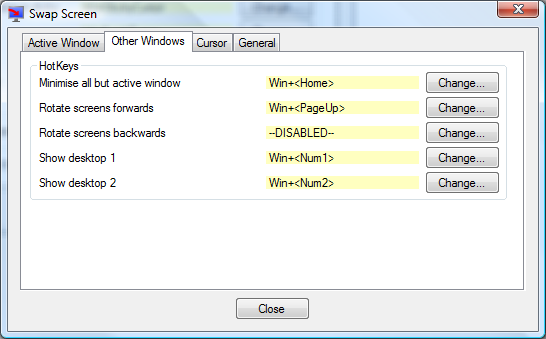
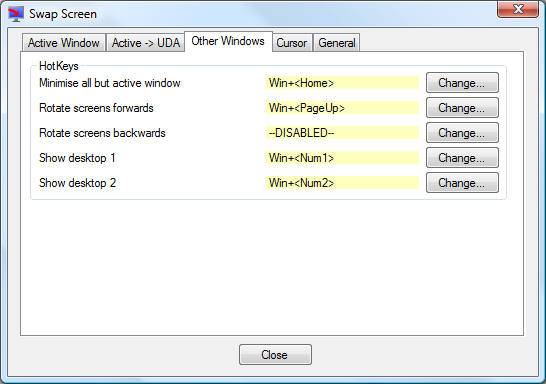
Version 1.8
git-svn-id: svn://svn.code.sf.net/p/dualmonitortool/code/trunk@273 fb2ba5e6-08d8-4d4c-bdde-3d14dca355d2

diff --git a/Web/swapscreen.html b/Web/swapscreen.html
@@ -77,7 +77,7 @@ appropriate 'Change...' button, you can enable the other hotkeys and choose a su
 either in this program or in another program or by Windows itself. If you do try to use one of these, 
 then you will be told that this is the case and you will be able to change the key combination to something different.</p>
 
-<p>The options window contains four tabs:</p>
+<p>The options window contains five tabs:</p>
 
 <p class="SubHeading">'Active Window' tab</p>
 
@@ -101,14 +101,24 @@ If you are running Windows 7, then Windows 7 already provides this functionality
 Win+&lt;Down&gt; hotkey.</p>
 
 <p class="SubHeading2"><a name="Maximise">Maximise active window</a></p>
-<p>If the active window can be maximised, then it is maximised.<br />
+<p>If the active window can be maximised, then it is maximised.
+If it is already maximised, then it is restored.<br />
 If you are running Windows 7, then Windows 7 already provides this functionality with the
 Win+&lt;Up&gt; hotkey.</p>
 
 <p class="SubHeading2"><a name="Supersize">Supersize active window</a></p>
 <p>If the active window can be resized, then it is made large enough to cover all screens.<br />
 This may mean that part(s) of the window may not be visible if your screens have different resolutions, 
-or if you have a fixed taskbar displayed.</p>
+or if you have a fixed taskbar displayed.<br />
+If you press the hotkey again on a window that has just been supersized, then the window is restored to its
+previous location and size.</p>
+
+<p class="SubHeading">'Active -&gt; UDA' tab</p>
+
+<img src="Images/SwapScreen1Uda.png" alt="Active to UDA Window" />
+<p>These allow you to move the active window to a User Defined Area (UDA).</p>
+
+<p>When first run, 10 default UDA's are generated, but you may change the name, location, size and the hotkey for all of these.</p>
 
 <p class="SubHeading">'Other Windows' tab</p>
 
@@ -170,6 +180,12 @@ You can adjust the resistance using the <a href="#StickyResistance">Resistance t
 <p class="SubHeading2"><a name="ControlCursor">Allow cursor to move freely if the left Control key is pressed</a></p>
 <p>If this is checked, then regardless of mode, you can freely move the cursor between screens while the left control key is pressed.</p>
 
+<p class="SubHeading2"><a name="PrimaryReturn">Allow cursor to return freely to the primary screen</a></p>
+<p>If this is checked, then regardless of mode, you can freely move the cursor over a screen boundary if the cursor is being moved onto the primary screen.</p>
+
+<p class="SubHeading2"><a name="DefaultCursor">Default cursor mode on startup</a></p>
+<p>Allows the cursor mode to be automatically set when SwapScreen starts.</p>
+
 <p class="SubHeading">'General' tab</p>
 
 <img src="Images/SwapScreen4.png" alt="General" />
@@ -221,7 +237,7 @@ to restore normal operation of the game, and in others it can mess the current g
 		<div id="footer-left">
 		</div>
 		<div id="footer-right">
-		last updated 26 Dec 2010
+		last updated 13 Apr 2011
 		</div>
 	</div>
 </div>

diff --git a/Web/dismon.html b/Web/dismon.html
@@ -68,20 +68,26 @@ If you use Windows 7, then some of this functionality is already provided by the
 
 <p class="SubHeading">Usage</p>
 
-<p>If you run this from the command line or as a shortcut, then the general format of the command is:<br>
+<p>If you run this from the command line or as a shortcut, then the general format of the command is:<br/>
 <b>&lt;Path to DisMon executable&gt; [Options for DisMon] &lt;Path to command to run&gt; [&lt;Parameters for command&gt;]</b>
 </p>
 
 <p>
-DisMon options start with a '<b>-</b>', followed by the screen number with '<b>1</b>' being the first screen and then followed
-by one of more characters indicating the options to apply to that screen.  Currently there are only two options:<br>
-'<b>d</b>' disables the screen<br>
+DisMon options start with a '<b>-</b>'.  There are 2 types of options: screen dependent options and general options. The screen dependent options have the screen number following the '<b>-</b> with '<b>1</b>' being the first screen. The screen number is then followed
+by one or more characters indicating the options to apply to that screen.  Currently there are only two options:<br/>
+'<b>d</b>' disables the screen<br/>
 '<b>p</b>' makes the screen the primary screen
 </p>
 
 <p>
 So for example, to disable the first screen and to make the second screen the primary screen, the options to use would be:
 <b>-1d -2p</b>.
+</p>
+
+<p>
+There are 2 general options:<br/>
+'<b>n</b>' don't restore the screens on exit<br/>
+'<b>x</b>' apply the changes and exit immediately
 </p>
 
 <p>
@@ -134,7 +140,7 @@ If there is any particular feature you want added, then please use the
 to leave your sugestion.</p>
 
 <p class="SubHeading">Known Problems</p>
-<p>In Windows 7, if the primary screen is disabled (in the GUI this is equivalent to pressing the button in the bottom right), then later changes can lead to unpredictable results, eg. one of the screens can be permanently disabled until it is re-enabled using Windows (or your Graphics card) control panel.<br>
+<p>In Windows 7, if the primary screen is disabled (in the GUI this is equivalent to pressing the button in the bottom right), then later changes can lead to unpredictable results, eg. one of the screens can be permanently disabled until it is re-enabled using Windows (or your Graphics card) control panel.<br/>
 In Windows XP, when another screen is made the primary screen, the taskbar is not moved onto that screen unless the original screen is disabled.
 </p>
 
@@ -146,7 +152,7 @@ In Windows XP, when another screen is made the primary screen, the taskbar is no
 		<div id="footer-left">
 		</div>
 		<div id="footer-right">
-		last updated 26 Dec 2010
+		last updated 12 Apr 2011
 		</div>
 	</div>
 </div>

diff --git a/Web/download.html b/Web/download.html
@@ -53,8 +53,8 @@
 
 <p class="SubHeading">Requirements</p>
 
-<p>Multi Monitor Tools will work with any version of Windows that has .NET 2.0 installed.</p>
-<p>If you do not have .NET 2.0 installed, then assuming your version of Windows supports it, 
+<p>Dual Monitor Tools will work with any version of Windows that has .NET 2.0 or later installed.</p>
+<p>If you do not have a suitable version of .NET installed, then assuming your version of Windows supports it, 
 you can install it from Windows Update.  You should be able to find it in the
 <i>Optional Updates</i> section.</p>
 <p>Dual Monitor Tools has been tested and found to work on XP, Vista and Windows 7.</p>
@@ -63,8 +63,6 @@ you can install it from Windows Update.  You should be able to find it in the
 
 <p>Dual Monitor Tools is hosted by <a href="http://sourceforge.net">SourceForge.Net</a> and the latest version
 may be downloaded from <a href="http://sourceforge.net/project/platformdownload.php?group_id=252267">here</a>.</p>
-
-<p> You will want to download the latest ...-exe.zip</p>
 
 <p class="SubHeading">Installation</p>
 
@@ -102,7 +100,7 @@ remove the files you unzipped and remove the configuration and data files for an
 		<div id="footer-left">
 		</div>
 		<div id="footer-right">
-		last updated 2 Jan 2011
+		last updated 12 Apr 2011
 		</div>
 	</div>
 </div>

diff --git a/Web/history.html b/Web/history.html
@@ -52,6 +52,35 @@
 <div id="content">
 
 
+<p class="SubHeading">13 Apr 2011 - release 1.8</p>
+<p><b>Swap Screen</b></p>
+<ul>
+	<li>Can now move the active window to any of 10 user defined areas on your screens.</li>
+	<li>Option to allow sticky/locked cursors to return freely to the primary screen.</li>
+	<li>Fixed problem where cancelling the 'Change hotkey' dialog did not always leave the hotkey unchanged.</li>
+</ul>
+
+<p><b>Dual Launcher</b></p>
+<ul>
+	<li>Fixed problem where disabling the hotkeys did not work.</li>
+</ul>
+
+<p><b>Dual Wallpaper</b></p>
+<ul>
+	<li>The background colour can now be changed. (Thanks to Shawn Steele for this.)</li>
+</ul>
+
+<p><b>DisMon</b></p>
+<ul>
+	<li>-n option added to not restore screens on exit.</li>
+	<li>-x option added to change screens and exit.</li>
+</ul>
+
+<p><b>Dual Snap</b></p>
+<ul>
+	<li>Fixed problem where cancelling the 'Change hotkey' dialog did not always leave the hotkey unchanged.</li>
+</ul>
+
 <p class="SubHeading">23 Jan 2011 - release 1.7</p>
 <p><b>Swap Screen</b></p>
 <ul>
@@ -216,7 +245,7 @@
 		<div id="footer-left">
 		</div>
 		<div id="footer-right">
-		last updated 23 Jan 2011
+		last updated 12 Apr 2011
 		</div>
 	</div>
 </div>

diff --git a/Web/dualwallpaper.html b/Web/dualwallpaper.html
@@ -109,7 +109,7 @@ then the 'Fit' combo box determines any scaling that need to be applied to the i
 		<div id="footer-left">
 		</div>
 		<div id="footer-right">
-		last updated 26 Dec 2010
+		last updated 12 Apr 2011
 		</div>
 	</div>
 </div>

diff --git a/DisMon/DisMon/Properties/AssemblyInfo.cs b/DisMon/DisMon/Properties/AssemblyInfo.cs
@@ -29,5 +29,5 @@ using System.Runtime.InteropServices;
 //      Build Number
 //      Revision
 //
-[assembly: AssemblyVersion("1.7.0.0")]
-[assembly: AssemblyFileVersion("1.7.0.0")]
+[assembly: AssemblyVersion("1.8.0.0")]
+[assembly: AssemblyFileVersion("1.8.0.0")]

diff --git a/DualLauncher/DualLauncher/Properties/AssemblyInfo.cs b/DualLauncher/DualLauncher/Properties/AssemblyInfo.cs
@@ -29,5 +29,5 @@ using System.Runtime.InteropServices;
 //      Build Number
 //      Revision
 //
-[assembly: AssemblyVersion("1.7.0.0")]
-[assembly: AssemblyFileVersion("1.7.0.0")]
+[assembly: AssemblyVersion("1.8.0.0")]
+[assembly: AssemblyFileVersion("1.8.0.0")]

diff --git a/DualSnap/DualSnap/Properties/AssemblyInfo.cs b/DualSnap/DualSnap/Properties/AssemblyInfo.cs
@@ -29,5 +29,5 @@ using System.Runtime.InteropServices;
 //      Build Number
 //      Revision
 //
-[assembly: AssemblyVersion("1.7.0.0")]
-[assembly: AssemblyFileVersion("1.7.0.0")]
+[assembly: AssemblyVersion("1.8.0.0")]
+[assembly: AssemblyFileVersion("1.8.0.0")]

diff --git a/DualWallpaper/DualWallpaper/Properties/AssemblyInfo.cs b/DualWallpaper/DualWallpaper/Properties/AssemblyInfo.cs
@@ -29,5 +29,5 @@ using System.Runtime.InteropServices;
 //      Build Number
 //      Revision
 //
-[assembly: AssemblyVersion("1.7.0.0")]
-[assembly: AssemblyFileVersion("1.7.0.0")]
+[assembly: AssemblyVersion("1.8.0.0")]
+[assembly: AssemblyFileVersion("1.8.0.0")]

diff --git a/SwapScreen/SwapScreen/Properties/AssemblyInfo.cs b/SwapScreen/SwapScreen/Properties/AssemblyInfo.cs
@@ -29,5 +29,5 @@ using System.Runtime.InteropServices;
 //      Build Number
 //      Revision
 //
-[assembly: AssemblyVersion("1.7.0.0")]
-[assembly: AssemblyFileVersion("1.7.0.0")]
+[assembly: AssemblyVersion("1.8.0.0")]
+[assembly: AssemblyFileVersion("1.8.0.0")]
